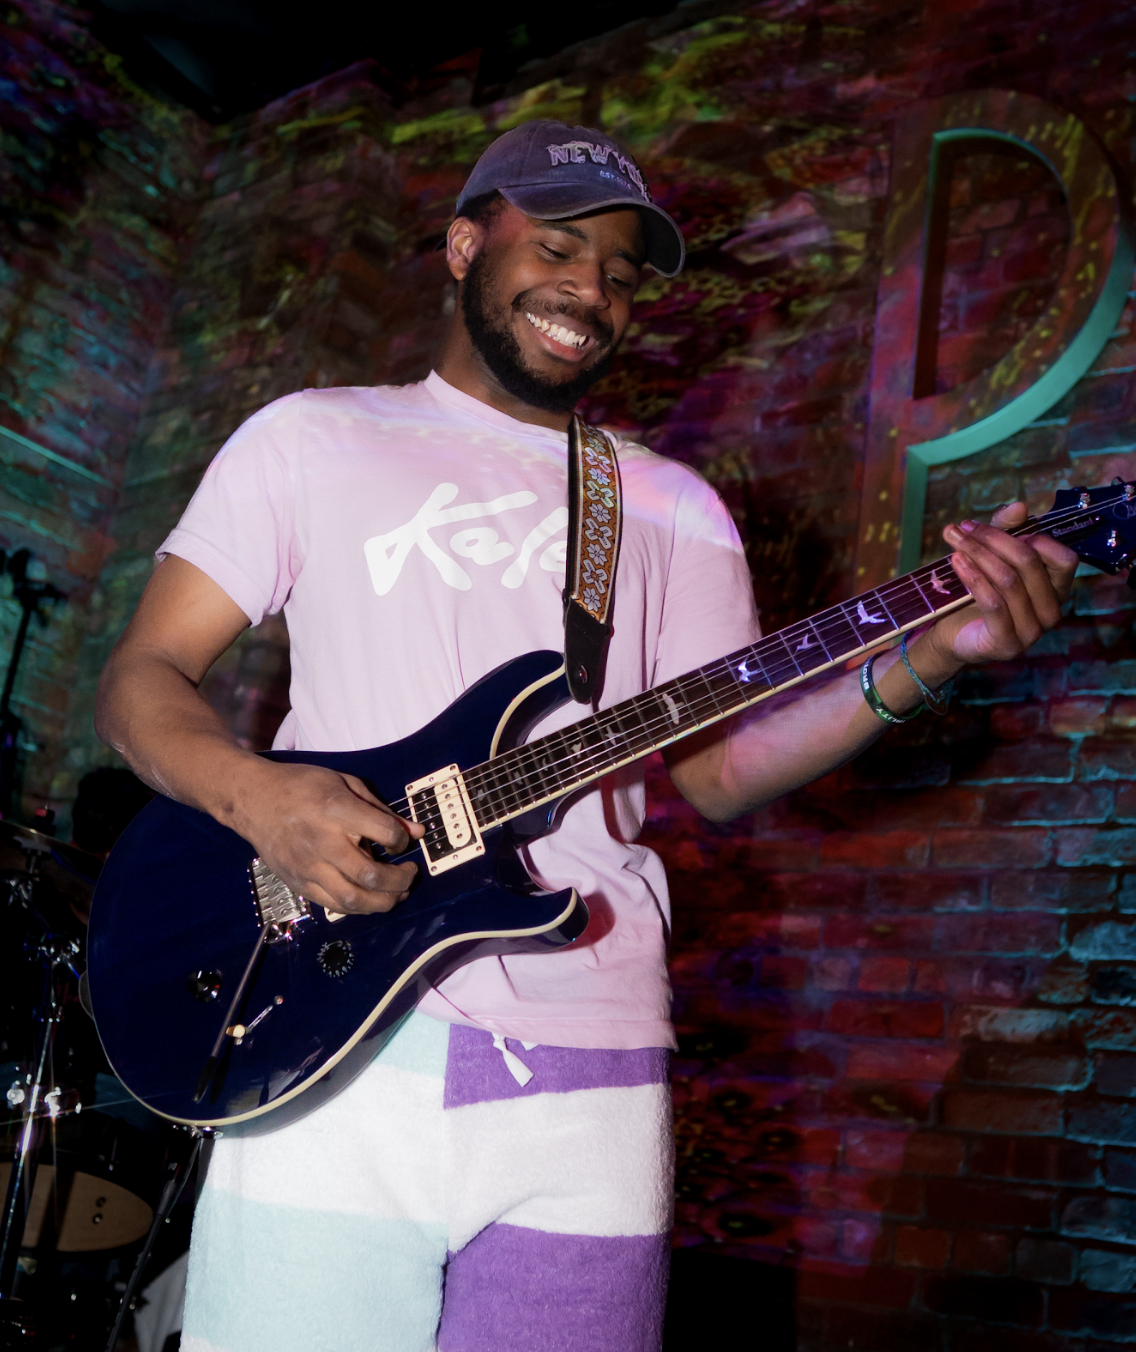
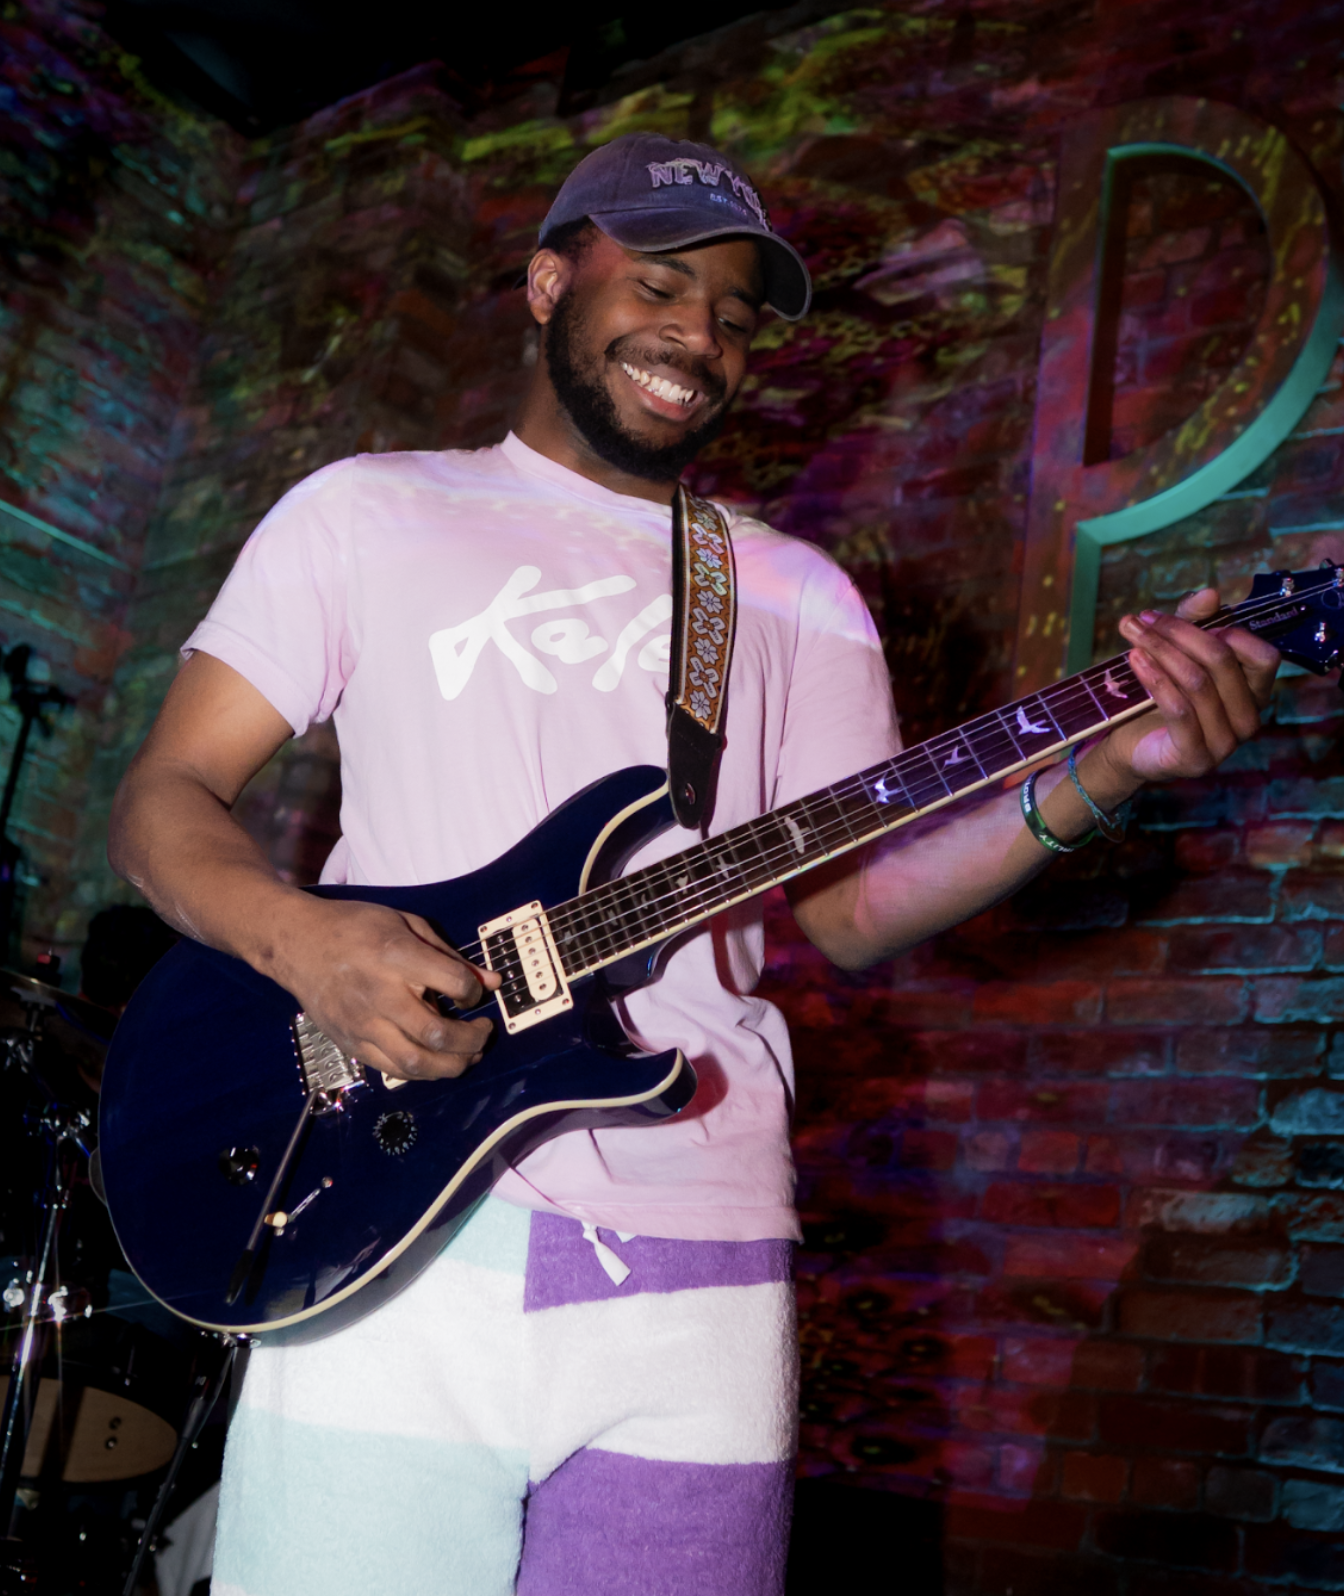
update website, lowered size of pictures, etc.

diff --git a/shows.html b/shows.html
@@ -54,7 +54,7 @@
                     <h1 class="text-5xl font-bold mb-4">Shows</h1>
                     <p class="text-xl mb-6">Upcoming and past performances</p>
                     <div class="flex justify-center md:justify-start space-x-4">
-                        <a href="https://www.instagram.com/itsannabellemusic/" target="_blank" rel="noopener" class="text-2xl hover:text-gray-300" aria-label="Instagram">
+                        <a href="https://www.instagram.com/itsannabxlle/" target="_blank" rel="noopener" class="text-2xl hover:text-gray-300" aria-label="Instagram">
                             <i class="fab fa-instagram"></i>
                         </a>
                         <a href="https://www.tiktok.com/@itsannabellemusic" target="_blank" rel="noopener" class="text-2xl hover:text-gray-300" aria-label="TikTok">
@@ -79,31 +79,8 @@
     <section class="py-20">
         <div class="container mx-auto px-4">
             <h2 class="text-4xl font-bold text-center mb-12">Upcoming Shows</h2>
-            
-            <!-- Upcoming Show 1 -->
-            <div class="max-w-6xl mx-auto">
-                <div class="show-card bg-white rounded-lg shadow-lg overflow-hidden mb-8">
-                    <div class="p-6">
-                        <div class="flex flex-col md:flex-row justify-between items-start md:items-center">
-                            <div>
-                                <h3 class="text-xl font-bold mb-2">Off-Broadway Music Showcase</h3>
-                                <p class="text-gray-600 mb-2">Triad Theater, New York</p>
-                                <p class="text-gray-600">Sat, May 17, 2024 | 6:30 PM</p>
-                            </div>
-                            <div class="mt-4 md:mt-0">
-                                <a href="https://www.instantseats.com/index.cfm?fuseaction=home.event&eventID=7D22E5FE-EA0B-0BFE-576C3DB619A0AE2B" 
-                                   target="_blank" 
-                                   rel="noopener" 
-                                   class="bg-purple-600 text-white py-2 px-6 rounded hover:bg-purple-700 transition">
-                                    Get Tickets
-                                </a>
-                            </div>
-                        </div>
-                    </div>
-                </div>
-            </div>
 
-            <!-- Upcoming Show 2 -->
+            <!-- Upcoming Show 1 -->
             <div class="max-w-6xl mx-auto">
                 <div class="show-card bg-white rounded-lg shadow-lg overflow-hidden mb-8">
                     <div class="p-6">
@@ -111,7 +88,7 @@
                             <div>
                                 <h3 class="text-xl font-bold mb-2">Roofstock II</h3>
                                 <p class="text-gray-600 mb-2">Astoria, New York</p>
-                                <p class="text-gray-600">Sat, June 7th, 2024 | 11 AM - 7 PM</p>
+                                <p class="text-gray-600">Sat, August 9th, 2025 | 12 PM - 7 PM</p>
                             </div>
                             <div class="mt-4 md:mt-0">
                                 <a href="https://www.itsannabellemusic.com/contact" 
@@ -126,7 +103,7 @@
                 </div>
             </div>
 
-            <!-- Upcoming Show 3 -->
+            <!-- Upcoming Show 2 -->
             <div class="max-w-6xl mx-auto">
                 <div class="show-card bg-white rounded-lg shadow-lg overflow-hidden">
                     <div class="p-6">

diff --git a/index.html b/index.html
@@ -45,7 +45,7 @@
                     <h1 class="text-7xl font-bold mb-4">Annabelle</h1>
                     <p class="text-xl mb-6">Singer-Songwriter | Performer | Artist</p>
                     <div class="flex justify-center md:justify-start space-x-4">
-                        <a href="https://www.instagram.com/itsannabellemusic/" target="_blank" rel="noopener" class="text-2xl hover:text-gray-300" aria-label="Instagram">
+                        <a href="https://www.instagram.com/itsannabxlle/" target="_blank" rel="noopener" class="text-2xl hover:text-gray-300" aria-label="Instagram">
                             <i class="fab fa-instagram"></i>
                         </a>
                         <a href="https://www.tiktok.com/@itsannabellemusic" target="_blank" rel="noopener" class="text-2xl hover:text-gray-300" aria-label="TikTok">
@@ -107,8 +107,9 @@
                 </a>
             </div>
             <div class="text-center mt-4">
-                <a href="https://www.instagram.com/itsannabellemusic/" target="_blank" rel="noopener" class="text-pink-600 hover:underline font-semibold">
-                    Follow @itsannabellemusic on Instagram
+                <a href="https://www.instagram.com/itsannabxlle/
+                /" target="_blank" rel="noopener" class="text-pink-600 hover:underline font-semibold">
+                    Follow @itsannabxlle on Instagram
                 </a>
             </div>
         </div>
@@ -160,7 +161,7 @@
     <footer class="bg-black text-white py-8">
         <div class="container mx-auto px-4 text-center">
             <p>&copy; 2025 Annabelle. All rights reserved.</p>
-            <p class="mt-2">www.itsannabellemusic.com</p>
+            <p class="mt-2">www.annabxlle.com</p>
         </div>
     </footer>
 

diff --git a/band.html b/band.html
@@ -58,7 +58,7 @@
                     <h1 class="text-5xl font-bold mb-4">Band & Friends</h1>
                     <p class="text-xl mb-6">Meet the talented people behind the music</p>
                     <div class="flex justify-center md:justify-start space-x-4">
-                        <a href="https://www.instagram.com/itsannabellemusic/" target="_blank" rel="noopener" class="text-2xl hover:text-gray-300" aria-label="Instagram">
+                        <a href="https://www.instagram.com/itsannabxlle/" target="_blank" rel="noopener" class="text-2xl hover:text-gray-300" aria-label="Instagram">
                             <i class="fab fa-instagram"></i>
                         </a>
                         <a href="https://www.tiktok.com/@itsannabellemusic" target="_blank" rel="noopener" class="text-2xl hover:text-gray-300" aria-label="TikTok">

diff --git a/contact.html b/contact.html
@@ -45,7 +45,7 @@
                     <h1 class="text-5xl font-bold mb-4">Contact</h1>
                     <p class="text-xl mb-6">Get in touch with Annabelle</p>
                     <div class="flex justify-center md:justify-start space-x-4">
-                        <a href="https://www.instagram.com/itsannabellemusic/" target="_blank" rel="noopener" class="text-2xl hover:text-gray-300" aria-label="Instagram">
+                        <a href="https://www.instagram.com/itsannabxlle" target="_blank" rel="noopener" class="text-2xl hover:text-gray-300" aria-label="Instagram">
                             <i class="fab fa-instagram"></i>
                         </a>
                         <a href="https://www.tiktok.com/@itsannabellemusic" target="_blank" rel="noopener" class="text-2xl hover:text-gray-300" aria-label="TikTok">
